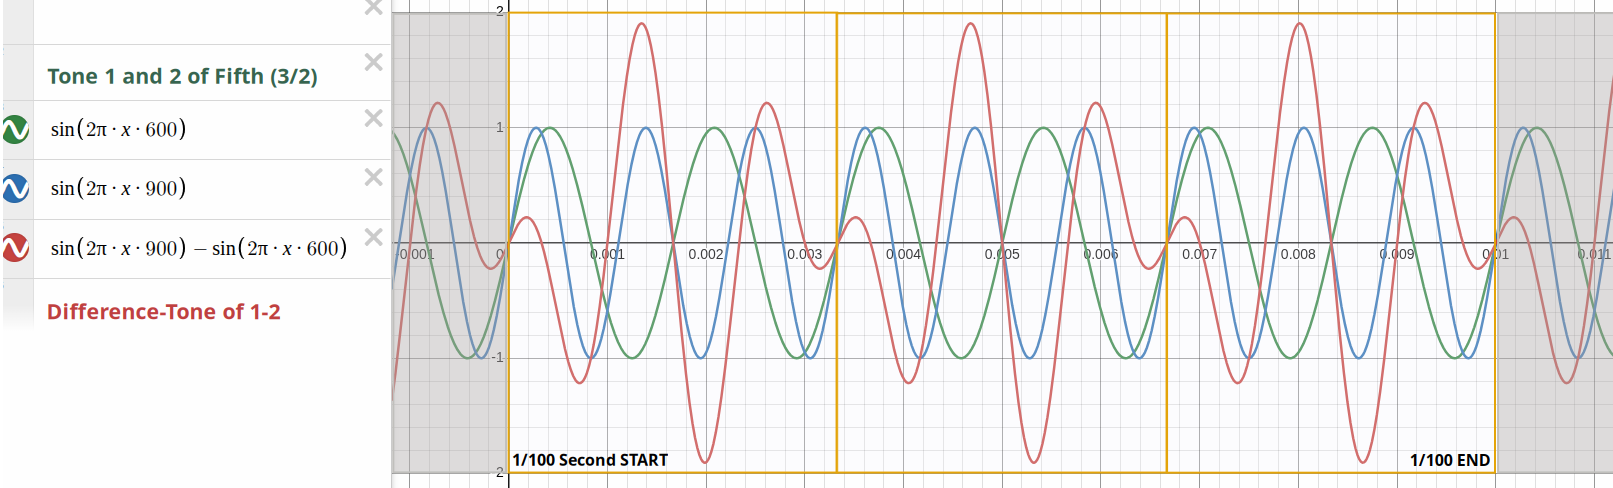
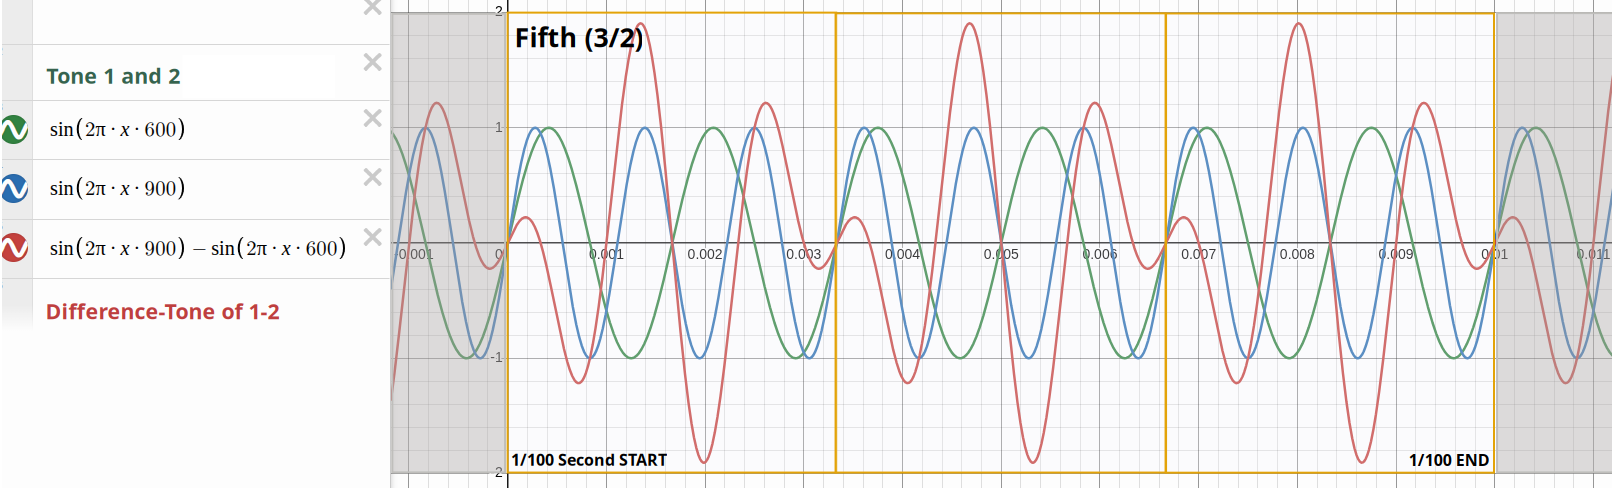
Added diagrams HTML docmentation, including diagrams.

diff --git a/src/main/resources/fri/music/diagrams.html b/src/main/resources/fri/music/diagrams.html
@@ -1,0 +1,69 @@
+<html>
+    <head>
+        <meta charset="UTF-8"/>
+        <meta name="viewport" content="width=device-width, initial-scale=1"/>
+        <title>Glossary</title>
+        <link rel="stylesheet" href="WebBrowser.css">
+        <style>td, th { padding: 8; }</style>
+    </head>
+    
+    <body>
+        <h1 id="top" style="text-align: center;">Sine Wave Diagrams</h1>
+        
+        <p>
+            Sine-wave diagrams of the most harmonious intervals.
+        </p>
+        
+        <ul>
+            <li><a href="#FIFTH">Fifth (3/2)</a></li>
+            <li><a href="#FOURTH">Fourth (4/3)</a></li>
+            <li><a href="#OCTAVE">Octave (2/1)</a></li>
+            <li><a href="#MAJOR_THIRD">Major Third (5/4)</a></li>
+            <li><a href="#MINOR_THIRD">Minor Third (6/5)</a></li>
+            <li><a href="#MINOR_SIXTH">Minor Sixth (8/5)</a></li>
+            <li><a href="#MAJOR_SIXTH">Major Sixth (5/3)</a></li>
+        </ul>
+        
+        <h2 id="FIFTH">Fifth</h2>
+        <p>
+            Following diagram shows the sine-waves of two interval-tones 
+            in green (600 Hertz) and blue (900 Hertz) of duration 1/100 second, 
+            representing a fifth, and their resulting difference-tone in red 
+            (300 Hertz, thus there are three waves in 1/100 second, framed in yellow). 
+        </p>
+        <p>
+            One Hertz means one wave in one second, so 100 Hertz would be 100 waves in one second,
+            or one wave in 1/100 second. 
+            One wave consists of a curve above the horizontal zero-line and a curve below it. 
+        </p>
+        <p style="text-align: center;">
+            <img src="DifftoneWave_FIFTH.png" width="50%" height="50%"></img>
+        </p>
+        
+        <h2 id="Others">Others</h2>
+        <p>
+            The diagrams below show the sine-wave interferences of other intervals
+            in same colors. The frequencies are given on top in variables <b>a</b> and <b>b</b>.
+        </p>
+        
+        <p id="FOURTH" style="text-align: center; padding-left: 80;">
+            <img src="DifftoneWave_FOURTH.png"></img>
+        </p>
+        <p id="OCTAVE" style="text-align: center; padding-left: 80;">
+            <img src="DifftoneWave_OCTAVE.png"></img>
+        </p>
+        <p id="MAJOR_THIRD" style="text-align: center; padding-left: 80;">
+            <img src="DifftoneWave_MAJOR_THIRD.png"></img>
+        </p>
+        <p id="MINOR_THIRD" style="text-align: center; padding-left: 80;">
+            <img src="DifftoneWave_MINOR_THIRD.png"></img>
+        </p>
+        <p id="MINOR_SIXTH" style="text-align: center; padding-left: 80;">
+            <img src="DifftoneWave_MINOR_SIXTH.png"></img>
+        </p>
+        <p id="MAJOR_SIXTH" style="text-align: center; padding-left: 80;">
+            <img src="DifftoneWave_MAJOR_SIXTH.png"></img>
+        </p>
+        
+    </body>
+</html>

diff --git a/src/main/resources/fri/music/introduction.html b/src/main/resources/fri/music/introduction.html
@@ -12,11 +12,9 @@
         <h1 id="top" style="text-align: center;">Difference Tones</h1>
         
         <p style="text-align: center;">
-            <b>This application gives insight into
-            what two tones could do to 
-            <a href="https://en.wikipedia.org/wiki/Harmony">harmony</a> 
-            when sounding at the same time.
-            Difference tones are part of 
+            <b>This application gives insight into what two tones could do to 
+            <a href="harmony.html">harmony</a> when sounding at the same time.
+            <a href="https://en.wikipedia.org/wiki/Beat_(acoustics)">Difference tones</a> are part of 
             <a href="https://en.wikipedia.org/wiki/Combination_tone">combination tones</a>
             and are also called 
             "<a href="https://en.wikipedia.org/wiki/Giuseppe_Tartini#Theoretical_work">Tartini</a> tones".</b>
@@ -40,8 +38,10 @@
             <h3><a href="harmony.html">About Harmony</a></h3>
 
             <h3><a href="#noteexample">Note Example</a></h3>
-            
+
             <h3><a href="glossary.html">Glossary</a></h3>
+
+            <h3><a href="diagrams.html">Sine Wave Diagrams</a></h3>
 
             <h3><a href="#Me">About Me</a></h3>
         </div>
